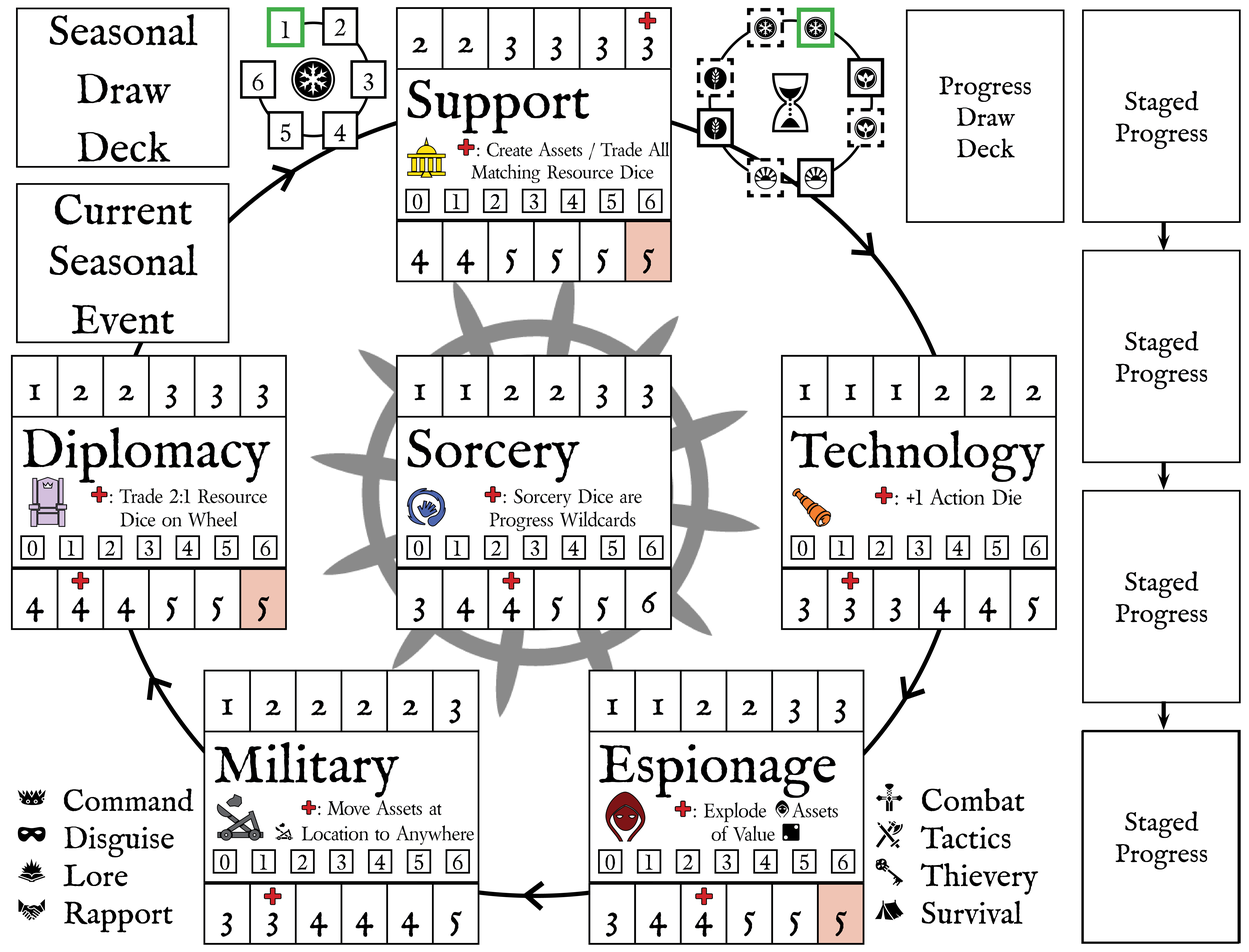
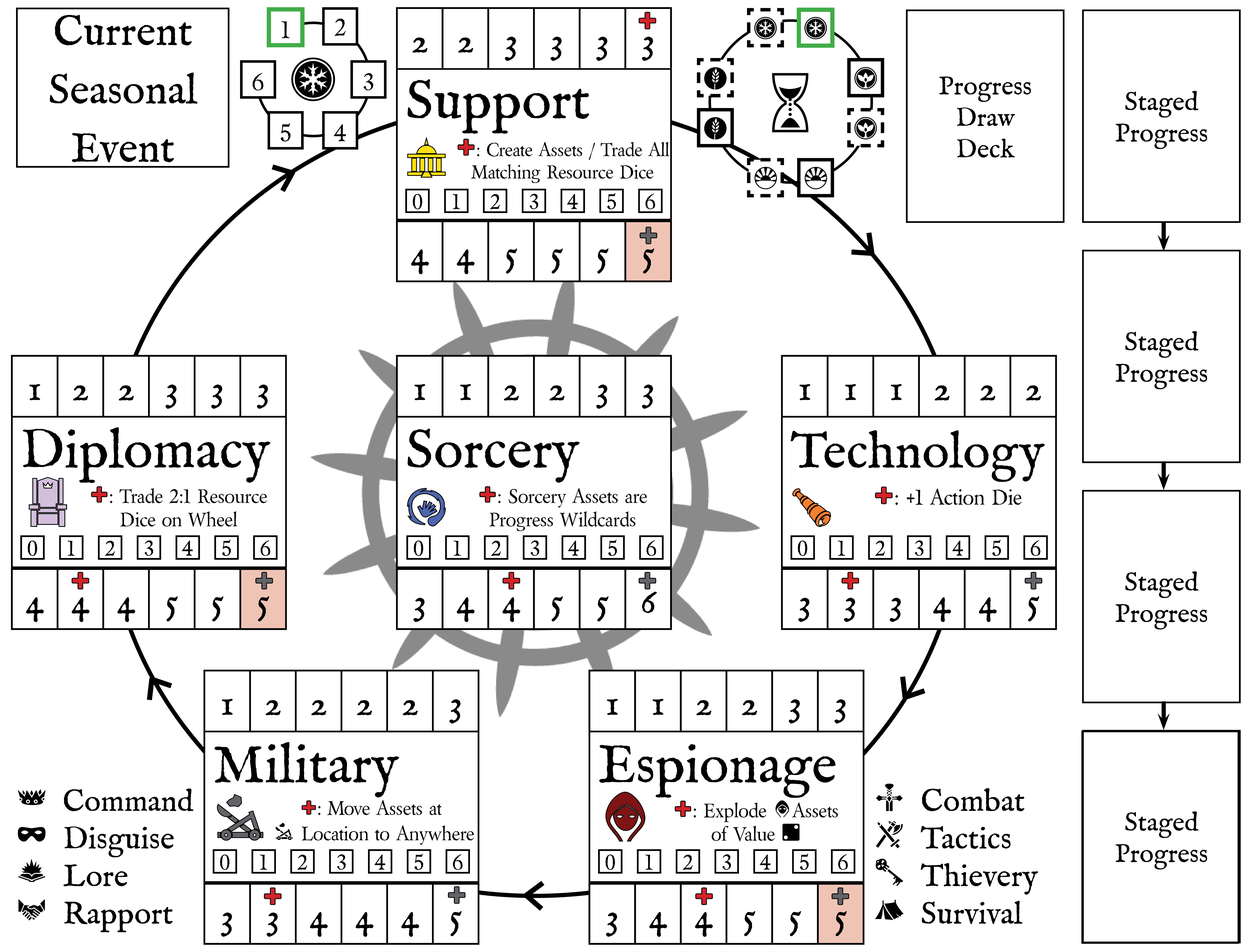
updates for version 19.7, new character achievements, no obstacle burn, simplified obstacle unlock

diff --git a/src/generate/indices_generator.py b/src/generate/indices_generator.py
@@ -1,12 +1,12 @@
 card_sets = [
-    ['Threat Mission Cards Fronts', 1, 129],
-    ['Threat Mission Cards Backs', 2, 129],
-    ['Attached Location Mission Cards Fronts', 129, 181],
-    ['Attached Location Mission Cards Backs', 130, 181],
+    ['Threat Obstcle Cards Fronts', 1, 123],
+    ['Threat Obstcle Cards Backs', 2, 123],
+    ['Attached Location Obstcle Cards Fronts', 123, 181],
+    ['Attached Location Obstcle Cards Backs', 124, 181],
     ['Progress Fronts', 1, 103],
     ['Progress Backs', 2, 103],
-    ['Locations Fronts', 1, 93],
-    ['Locations Backs', 2, 93],
+    ['Locations Fronts', 1, 99],
+    ['Locations Backs', 2, 99],
     ['Seasonal Events Fronts', 1, 33],
     ['Seasonal Events Backs', 2, 33]
 ]

diff --git a/docs/RULES.md b/docs/RULES.md
@@ -12,7 +12,7 @@
 10. [**FAQ**](#faq)
 11. [**Playtest Issues**](#playtest-issues)
 
-# Six Winters v19.6
+# Six Winters v19.7
 
 *Six Winters* is a cooperative fantasy campaign game for 1-4 players based on the *Wrath of the Autarch* tabletop role-playing game.
 
@@ -56,7 +56,7 @@ If a Red Bank progress marker is _alone_ on the last space of the resource track
 
 Any other state of the game after six sessions results in defeat for Red Bank.
 
-Additionally, a score is calculated at the end, with players getting points for every resource track where the progress marker is higher than the threat marker.
+Additionally, a score is calculated at the end, with players getting points for every resource track where the progress level is higher than the threat level.
 
 `There are thematic reasons that Military, Technology, and Sorcery tracks don't translate to victory. It is impossible to keep pace with the Empire on the Military and Technology fronts. Sorcery is too chaotic to form a strategy around, but it's a very useful resource for some characters, and it's possible to craft and transmute sorcery into other resources. All of the resources have value and mechanical impact during the game.`
 
@@ -111,18 +111,19 @@ Location cards have a variety of tags, mostly used by other card effects. All lo
 
 Along with the tags are one or more icons, as follows:
 
-| Empire | Red Bank | Settled Lands | Starting | Sorcery Threat | Military Threat | Technology Threat | Discord |
-| :---: | :---: | :---: | :---: | :---: | :---: | :---: | :---: |
-| <img src="rules_images/defensive-wall.png" width="100" height="100"/> | <img src="rules_images/holy-oak.png" width="100" height="100" /> | <img src="rules_images/water-mill.png" width="100" height="100" /> | <img src="rules_images/stack.png" width="100" height="100" /> | <img src="rules_images/magic-swirl.png" width="100" height="100" /> | <img src="rules_images/catapult.png" width="100" height="100"/> | <img src="rules_images/spyglass.png" width="100" height="100" /> | <img src="rules_images/backstab.png" width="100" height="100" /> |
+| Empire | Red Bank | Settled Lands | Starting | Discord |
+| :---: | :---: | :---: | :---: | :---: |
+| <img src="rules_images/defensive-wall.png" width="100" height="100"/> | <img src="rules_images/holy-oak.png" width="100" height="100" /> | <img src="rules_images/water-mill.png" width="100" height="100" /> | <img src="rules_images/stack.png" width="100" height="100" /> | <img src="rules_images/backstab.png" width="100" height="100" /> |
 
 * **Empire** - Imperial location, in the Empire locations deck and playable to the Empire region
 * **Red Bank** - Red Bank location, in the Red Bank locations deck and playable to the Red Bank region
 * **Settled Lands** - Settled Lands location, in the Settled Lands location deck and playable to the Settled Lands region
 * **Starting Location** - In the default campaign mode, this is one of the nine starting location cards
-* **Sorcery Threat** - Comes into play if the sorcery threat track reaches the final space
-* **Military Threat** - Comes into play if the military threat track reaches the final space
-* **Technology Threat** - Comes into play if the technology threat track reaches the final space
 * **Discord** - Comes into play if one of the characters, Oniri, sustains too much stress (see below)
+
+### Threat Locations
+
+If a threat level ever reaches the last box on a resource track, it immediately unlocks and puts into play a **threat location**. These present difficulties for Red Bank, but also offer an opportunity to lower the threat track. The threat locations have icons for resources under their title.
 
 ### Create Asset Skill
 
@@ -216,21 +217,11 @@ Every obstacle card has a name, although they are not all unique. There are mult
 
 Below the name, as for location cards, are a set of text tags and icons for each obstacle. Similarly to locations, these text tags may interact with other obstacle cards, location effects, and character abilities.
 
-### Obstacle Unlock Icon
+Additionally, some obstacles feature a location icon, indicating they come into play when the associated location comes into play.
 
-Along with the tags each obstacle has one icon, which shows how it becomes unlocked::
-
-| Location | Support Threat | Technology Threat | Espionage Threat | Military Threat | Diplomacy Threat | Sorcery Threat |
-| :---: | :---: | :---: | :---: | :---: | :---: | :---: |
-| <img src="rules_images/up-card.png" width="100" height="100" /> | <img src="rules_images/capitol.png" width="100" height="100" /> | <img src="rules_images/spyglass.png" width="100" height="100" /> | <img src="rules_images/cowled.png" width="100" height="100" /> | <img src="rules_images/catapult.png" width="100" height="100" /> | <img src="rules_images/stone-throne.png" width="100" height="100" /> | <img src="rules_images/magic-swirl.png" width="100" height="100" /> |
-
-* **Location** - This obstacle comes into play attached to the location with the obstacle's name in its text box
-* **Support Threat** - This obstacle comes into play at the end of a session if the support threat level is at or above the obstacle difficulty
-* **Technology Threat** - This obstacle comes into play at the end of a session if the technology threat level is at or above the obstacle difficulty
-* **Espionage Threat** - This obstacle comes into play at the end of a session if the espionage threat level is at or above the obstacle difficulty
-* **Military Threat** - This obstacle comes into play at the end of a session if the military threat level is at or above the obstacle difficulty
-* **Diplomacy Threat** - This obstacle comes into play at the end of a session if the diplomacy threat level is at or above the obstacle difficulty
-* **Sorcery Threat** - This obstacle comes into play at the end of a session if the sorcery threat level is at or above the obstacle difficulty
+| Unlocked with Location |
+| :---: |
+| <img src="rules_images/up-card.png" width="100" height="100" /> |
 
 ### Difficulty
 
@@ -243,6 +234,10 @@ Below the difficulty is a region symbol. This shows which region's obstacle deck
 ### Threats
 
 Along the right side of the obstacle are one or more threat icons, showing one of the six resources in the game. If there are *three* or more obstacles in play with the same obstacle symbol during the [**threats**](#threats) phase, the related threat track will increase.
+
+These threat icons are also important for unlocking obstacle cards and putting them into play. As the threat levels increase, more difficult obstacles with matching icons are unlocked as part of the [**unlock new threat obstacles**](#unlock-new-threat-obstacles) step.
+
+Occasionally, game effects will refer to an obstacle by the threat icons. For instance, "a military obstacle" or "a sorcery obstacle". An obstacle qualifies if *any* of its threat icons match the description.
 
 ### Effect
 
@@ -311,7 +306,11 @@ On each resource pool are numbered **resource action slots** from 0 to 6. These 
 
 ### Resource Mastery Bonus
 
-When Red Bank's progress track for a resource is at or beyond the **+** symbol on the resource track, Red Bank has mastery in that resource, and players gain the mechanical benefit described in the resource box. These bonuses are further clarified in the [**resource bonuses**](#resource-bonuses) section.
+When Red Bank's progress track for a resource is at or beyond the red **+** symbol on the resource track, Red Bank has mastery in that resource, and players gain the mechanical benefit described in the resource box. These bonuses are further clarified in the [**resource bonuses**](#resource-bonuses) section.
+
+### Threat Location Unlock
+
+If a threat level reaches the end of a track, where the gray **+** symbol is located, it immediately unlocks and puts into play a threat location. These present unique challenges for Red Bank to deal with, but also offer an opportunity to lower the related threat track.
 
 ### Wheel of Seasons
 
@@ -363,7 +362,7 @@ There are separate character sheets for the seven characters in the game. At the
 
 ### Skills
 
-The upper left of the character sheet describes how proficient the character is at a set of six skills:
+The upper left of the character sheet describes how proficient the character is at a set of eight skills:
 
 | Command | Disguise | Lore | Rapport | Combat | Tactics | Thievery | Survival |
 | :---: | :---: | :---: | :---: | :---: | :---: | :---: | :---: |
@@ -381,7 +380,7 @@ If a character takes stress such that the tracking die would go to zero, it is s
 
 ### Conditions
 
-The stress track boxes below the starting position are called **conditions**. When the stress die moves on to one of these, cross it off. The first stress box below the starting position unlocks a [**commitment**](#commitment) ability when it is checked off. The remaining two unlock [**discord**](#discord) effects.
+The stress track boxes below the starting position are called **conditions**. When the stress die moves on to one of these, cross it off. The bottom two conditions on each track unlock [**discord**](#discord) effects.
 
 Conditions are recovered at the end of each game, during the [**recover conditions**](#recover-conditions) step.
 
@@ -389,7 +388,7 @@ If a condition box is already checked off when the stress die is moved down, **i
 
 ### Recovering Stress and Conditions
 
-There are many ways to recover stress, such as the [**rest**](#rest) action. In these cases, the chosen stress die is increased by the indicated amount. Unless otherwise indicated, this can be done to increase the stress die above its starting value. However! It is not possible to recover conditions or move the stress die back up the condition track during a session. If a die is at the 6 value, no improvement is possible for that stress track. Once the die has moved down the track, it is at that level or below for the rest of the game. Recovering conditions takes place during the [**recover conditions**](#recover-conditions) year end step.
+There are many ways to recover stress, such as the [**rest**](#rest) action. When stress is recovered, the chosen stress die is increased by the indicated amount. Unless otherwise indicated, this can increase the stress die above its starting value. However! It is not possible to recover conditions or move the stress die back up the condition track during a session. If a die is at the 6 value, no further improvement is possible for that stress track. Once the die has moved down the track, it is at that level or below for the rest of the game. Recovering conditions takes place during the [**recover conditions**](#recover-conditions) year end step.
 
 ### Knocked Out
 
@@ -403,35 +402,35 @@ Abilities are available to use at any time during the [**actions**](#actions) ph
 
 Like progress cards, abilities with a specific die value require using a die of that value. Abilities with a white box may be used with any die.
 
-Most abilities generate or modify dice. The generated die has the same type as the die used to activate the ability. For instance, Lucia has the ability to turn a 1 die into a 2 die. If a 1 action die is used for this ability, a 2 action die is generated. If a 1 die from the location's resource pool where Lucia is at is used, then a 2 is put back into that resource pool.
+Most abilities generate or modify dice. Unless otherwise noted, the generated die has the same type as the die used to activate the ability. For instance, Lucia has the ability to turn a 1 die into a 2 die. If a 1 action die is used for this ability, a 2 action die is generated. If a 1 die from the location's resource pool where Lucia is at is used, then a 2 is put back into that resource pool.
 
 Leave any dice on character abilities until the [**refresh**](#refresh) phase. Essentially, character abilities that take dice may only be used once per turn. Abilities that take stress may be used many times.
 
 ### Sample Abilities
 
-<img src="rules_images/square.png" width="75" height="75" /> <img src="rules_images/arrow-right.png" width="75" height="75" /> <img src="rules_images/cubes.png" width="75" height="75" />
+<img src="rules_images/brain.png" width="75" height="75" /> <img src="rules_images/brain.png" width="75" height="75" /> <img src="rules_images/arrow-right.png" width="75" height="75" /> <img src="rules_images/cubes.png" width="75" height="75" />
 
-Spend a die to reroll any dice in the same target pool. As usual, an action die may be spent to roll any of the character's action dice, an asset where the character is located may be spent to reroll any other assets where the character is located, or any dice in the location's resource pool where the character is located may be spent to roll any other dice in that resource pool. Players do not have to reroll all the dice, they can choose which dice to reroll.
+Take two psyche stress to reroll any dice in the chosen target pool. May target the action dice pool for the character, the assets where the character is located, or the location's resource pool where the character is located. Players do not have to reroll all the dice, they can choose which dice to reroll.
 
 <img src="rules_images/dice-six-faces-one.png" width="75" height="75" /> <img src="rules_images/arrow-right.png" width="75" height="75" /> <img src="rules_images/dice-six-faces-two.png" width="75" height="75" />
 
-Turn a value 1 die into a value 2 die. Most characters have a "turn die X into die Y" ability. As usual, the die can come from the player's action dice, from an asset die where the character is located, or from the location's resource pool where the character is located. The new die is of the same type as the die placed on the ability.
+Turn a value 1 die into a value 2 die. Most characters have a "turn die X into die Y" ability. The die can come from the player's action dice, from an asset die where the character is located, or from the location's resource pool where the character is located. The new die is of the same type as the die placed on the ability.
 
 <img src="rules_images/square.png" width="75" height="75" /> <img src="rules_images/arrow-right.png" width="75" height="75" />
 
-These abilities are activated by placing an action die, an asset from where the character is at, or a resource die from the location's resource pool where the character is located. There are a wide variety of possible character effects.
+These abilities are activated either by placing an action die, an asset from where the character is at, or a resource die from the location's resource pool where the character is located. There are a wide variety of possible character effects.
 
 See the [**character appendix**](#character-appendix) for a more detailed breakdown of character abilities.
 
-### Commitment Abilities
+### Achievements
 
-When a character marks off the first condition box, they gain a commitment ability. Some stress is a good thing! Commitment abilities work just like other character abilities. These are unlocked in order, from top to bottom.
+Characters have additional abilities that are unlocked by undertaking different tasks during a game. These are listed under the achievements section of the character sheet. When a character takes the indicated action, they mark off the associated achievement and gain the related ability. These achievements may be gained in any order.
 
-`Since there are only two conditions with commitment, it's usually not possible for a character to gain more than two commitment abilities in one session.`
+See the [**character appendix**](#character-appendix) for a more detailed breakdown of achievements.
 
 ### Discord Effects
 
-Too much stress, though, is terrible. When either of the bottom two condition boxes are marked on the stress boxes, characters take a discord effect. The discord effects are also unlocked from top to bottom. Most discord effects require the player to write in something, such as a character name, a resource, or some other detail. These choices will make some characters unwilling to work as closely with certain characters. Choose carefully!
+Too much stress can bring out the worst in a character. When any discord condition box is marked on the stress track, characters take a discord effect. The discord effects are unlocked from top to bottom.
 
 See the [**character appendix**](#character-appendix) for a more detailed breakdown of discord effects.
 
@@ -484,11 +483,7 @@ Alternatively, shuffle the location cards by region. Then draw four cards from e
 
 ## Assemble Starting Obstacle Decks
 
-Unlock all of the obstacles with difficulties less than or equal to the initial threat levels for that resource. The [**unlock icon**](#obstacle-unlock-icon) of the obstacle is determined by finding the small black and white icon under the title.
-
-For instance, in the standard difficulty, the initial diplomacy threat level starts at 2. This is because the third space on the diplomacy track has a 2 on it. So gather up all of the obstacles with small black and white diplomacy unlock icons under their title of difficulty 1 and 2.
-
-After gathering up all of the initial obstacles based on starting threat tracks, divide them into decks by region icon in the upper left, and shuffle each of these decks to form one draw pile in each region. Set aside the remaining locked obstacles.
+Unlock all of the obstacles with difficulties of **two** or less and divide them into decks by region icon in the upper left. Shuffle each of these decks to form one draw pile in each region. Set aside the remaining locked obstacles.
 
 ## Assemble New Character Sheets
 
@@ -612,6 +607,10 @@ There will now be a number of open positions in the progress staging area equal 
 Raise each threat track by one for every matching threat symbol on obstacle cards beyond two. For instance, if there are 4 military thret icons on the obstacle cards, the military threat track will increase by 2. If there are 3 diplomacy threat icons on obstacles, the diplomacy threat track will increase by 1, etc.
 
 If a threat track is already at the highest position (step 12 on the track), increase the next threat track in trade order. For instance, if the support track is maxed out, increase technology instead. If sorcery is maxed out, players may choose which track to increase.
+
+### Unlocking Threat Locations
+
+Additionally, when a threat track reaches the final space, immediately unlock and put into play the related [**threat location**](#threat-locations). Burn one location in the region where the threat location should go, and put the threat location into play at that space. Unlock and attach any obstacles as indicated on the threat location card.
 
 `Unless playing at a very hard difficulty, maxing out a threat track is fairly rare, and typically only happens near the end of the campaign.`
 
@@ -737,7 +736,7 @@ TBD
 
 At the end of each session, complete the following steps:
 
-1. Burn Obstacles
+1. Clear Unfinished Progress and Asset Dice
 2. Burn Progress Cards
 3. Unlock New Obstacles
 4. Shuffle Obstacle Decks
@@ -748,9 +747,9 @@ At the end of each session, complete the following steps:
 
 Instructions to **burn** cards refer to placing them out of play for the remainder of the campaign. There is no effect that brings a burned card back into play.
 
-## Burn Obstacles
+## Clear Unfinished Progress and Asset Dice
 
-In each region's obstacle discard pile, burn the obstacle card on the bottom the discard deck. That is, the first obstacle discarded.
+Remove and discard any asset dice currently on location cards. Discard any dice on currently unfinshed progress cards and discard the progress cards to the appropriate stage deck.
 
 ## Burn Progress Cards
 
@@ -760,7 +759,9 @@ Gather and shuffle all of the progress cards for the lowest stage, then randomly
 
 ## Unlock New Threat Obstacles
 
-For each threat track, unlock obstacle cards with the given threat unlock icon of a difficulty less than or equal to the threat level. Place the unlocked obstacled cards in the region discard pile matching the region symbol of each obstacle.
+For each threat track, unlock obstacle cards with at least one of the related threat icons that have a difficulty less than or equal to the threat level. Place the unlocked obstacled cards in the region discard pile matching the region symbol of each obstacle.
+
+`As the threat levels increase, more difficult obstacles related to that resource are unlocked.`
 
 ## Shuffle Obstacle Decks
 
@@ -778,11 +779,17 @@ For each region, shuffle the region's location deck and draw two locations. Choo
 
 Some location cards will unlock new location obstacles at this time. If the location has a starting obstacle icon, look through the locked obstacle cards and put any matching named obstacles into play with the location. 
 
+### Locations to Unlock New Characters
+
+There is one location in each region that allows players to unlock a new character: *Undari's Tomb* (Red Bank / Oniri), *Pearlescent Marsh* (Settled Lands / Yasmina), and *Guild of Secrets* (Empire / Lucia). **Instead of** drawing locations randomly for the given region, players may choose an unlock location instead. Any number of character unlock locations may be chosen for the end of the year, although there could be quite a few obstacles in play at the start of the next game.
+
 ## Recover Conditions
 
 Each unlocked character recovers the first (the one closest to the starting stress position) marked condition box on each track. Erase the mark on this condition. More severe conditions, like *Wounded*, could be difficult to clear if character's are frequently marking multiple conditions!
 
 Note that **all** unlocked characters recover one condition on each stress track, even if they weren't active for this session. This is a way to let badly stressed characters have some extra recovery.
+
+`For instance, if a character is both weary and bruised, the weary condition is erased. Bruised remains.`
 
 ## Advance Year
 
@@ -790,7 +797,7 @@ The year advances by one. If this is year six, the campaign is over, move on to 
 
 ## Store Game
 
-For *Tabletop Simulator*, this is probably straightforward. In the real game, decks will have to be stacked in such a way that they are easy to recover again.
+For *Tabletop Simulator*, this is probably straightforward. In the real game, locations and obstacle decks will have to be stacked in such a way that they are easy to recover again.
 
 # Campaign End
 
@@ -861,25 +868,23 @@ Spend a die and gain a die of one value lower.
 
 ### Tech Split
 
-<img src="rules_images/spyglass.png" width="75" height="75" /> <img src="rules_images/arrow-right.png" width="75" height="75" /> <img src="rules_images/square.png" width="75" height="75" /> <img src="rules_images/plus.png" width="75" height="75" /> <img src="rules_images/square.png" width="75" height="75" />
+<img src="rules_images/spyglass.png" width="75" height="75" /> <img src="rules_images/arrow-right.png" width="75" height="75" /> <img src="rules_images/spyglass.png" width="75" height="75" /> <img src="rules_images/plus.png" width="75" height="75" /> <img src="rules_images/spyglass.png" width="75" height="75" />
 
-Spend a technology die, either an asset or resource pool die, and gain two dice of the same type. The two dice must sum to the spent die.
+Spend a technology die, either an asset or resource pool die, and gain two dice of the same type (asset or resource). The two dice must sum to the spent die.
 
 ### Die Split
 
 <img src="rules_images/square.png" width="75" height="75" /> <img src="rules_images/arrow-right.png" width="75" height="75" /> <img src="rules_images/square.png" width="75" height="75" /> <img src="rules_images/plus.png" width="75" height="75" /> <img src="rules_images/square.png" width="75" height="75" />
 
-Spend any type of die and gain two dice of the same type. The two dice must sum to the spent die.
-
-## Menas
-
-### Exploding Threes
-
-<img src="rules_images/square.png" width="75" height="75" /> <img src="rules_images/arrow-right.png" width="75" height="75" /> <img src="rules_images/dice-fire.png" width="75" height="75" />
-
-Spend a die to explode all value 3 dice in a chosen pool. The standard three dice pools may be selected: Menas's action dice, assets where Menas is located, or the location's resource dice pool where Menas is located. Gain an extra die of the appropriate type for each 3 in the pool and roll them. If any of those dice roll a 3, take additional dice and roll those. Continue gaining new dice every time a 3 is rolled.
+Spend any type of die (action die, asset, or resource die) and gain two dice of the same type. The two dice must sum to the spent die.
 
 ## Thea
+
+### Exploding Fives
+
+<img src="rules_images/capitol.png" width="75" height="75" /> <img src="rules_images/arrow-right.png" width="75" height="75" /> <img src="rules_images/exploding-five.png" width="75" height="75" />
+
+Spend a support asset or resource die to explode all value 5 dice in a chosen pool. The standard three dice pools may be selected: Thea's action dice, assets where Thea is located, or the location's resource dice pool where Thea is located. Gain an extra die of the appropriate type for each 5 in the selected pool and roll them. If any of those dice roll a 5, take additional dice and roll those. Continue gaining new dice every time a 5 is rolled.
 
 ### Rearrange Staged Achievements
 
@@ -920,7 +925,7 @@ One area to watch surrounds how new obstacles are unlocked and put into the game
 3. Character abilities burn obstacles
 4. Some number are burned at the end of every game
 
-Initially I thought the obstacle decks would cycle quite a bit, so there was almost a deck builder aspect to the game. That hasn't really happened for a variety of reasons (mainly because of how obstacles are tied to threats). But! It still seems fun, if, like locations, obstacle decks start one way, and slowly change over time. Either 3 or 4 seem good.
+Initially I thought the obstacle decks would cycle quite a bit, so there was almost a deck builder aspect to the game. That hasn't really happened for a variety of reasons (mainly because of how obstacles are tied to threats). I'm currently at 1 - although that does mean that obstacles added very late in the campaign may never be seen. I reconciled this with the fact that very important obstacles are typically attached to locations, so are guaranteed to start in play.
 
 ## Obstacle and Threat Pacing
 
@@ -930,7 +935,7 @@ Does the game lock up if threat levels aren't increasing? More difficult obstacl
 
 ## Character Abilities
 
-There's lots of room to tune character abilities, particularly around writing customizing characters over the campaign.
+There's lots of room to tune character abilities.
 
 Dice combos and chains are probably the funnest part of the game. Not surprising given it's a dice game. So character effects that are like "spend a pair" to get XYZ or "a straight of size X" gives you some powerful effect, etc, would be fun advanced abilities.
 
@@ -945,19 +950,19 @@ Action items from playtests and potential variants or ideas.
 * Does Hidden Outpost need a "stationary" tag?
    * Certain obstacles probably wouldn't move around, even for activation reasons
    * Could also change the theme to have it make sense for moving around
-* Add location, obstacle, or character effects for burning obstacles in discard piles
+* Add location, obstacle, or character effects for burning obstacles in discard piles?
    * Instead of auto-burning obstacle cards
+   * Seems fiddly though, for probably not much benefit
 * Possible combos on left side of character cards
    * 3 4 5 --> 5 dice
       * Or some sort of straight to big combo or some effect could be fun
    * 3 3 3 --> 1 2 3
       * Set to straight combos could be useful on +1/-1 sorts of progress cards
-* Customizable character abilities
-   * Write in resources you can create or trade into?
-   * Move to the location where XYZ is located
-   * Write in some sort of location type where character can benefit
 * Wondering if the complexity of skill types for locations (for create asset and trade) is worth it
    * Maybe more fiddly than it's worth for the tactical interest
+   * How different is the game if characters can just grab as many resources as they want (given action dice)?
 * Random threat increase amount, based on highest difficulty of obstacle in set?
 * Should players be able to choose which location to burn?
    * How many locations per region to draw?
+* Should Thea get "exploding 5s" and Menas get the flip a die?
+   * Exploding dice are subtly better for progress cards?

diff --git a/docs/BRAINSTORMING.md b/docs/BRAINSTORMING.md
@@ -1,3 +1,48 @@
+# 08/26/22
+
+## Obstacle Pacing
+
+Also still not sure about obstacles coming and going. Without burning some off, it's pretty unlikely new ones will be drawn with any regularity. Burning one off each game gives you 18 burned. There are 64 general ones, and can probably figure on 10 or so coming from locations.
+
+How to avoid the decks somehow getting too low? Could look at threat levels. Still could be too many cards burned. Maybe should give every end of threat track a location with specific obstacles? That would make sure they come into play during the final game. Or maybe you unlock the obstacle cards immediately, putting them on top of decks? That would work, but it's pretty fiddly.
+
+Learning towards:
+
+* never burn obstacles, except a select few
+* add obs at end of turn, shuffling into deck
+* every track has a location at the end for the high threat condition
+* end of threat tracks are immediate - so they can happen during the last game
+
+## Achievements
+
+* Complete Progress Card
+   * Type
+   * Stage
+* Overcome Obstacle
+   * Type
+   * Difficulty
+   * With Other Character
+   * At Location
+   * In Region
+* Spend Assets
+* Take Condition
+
+Currently commitment is all based on conditions. This maybe creates mismatched incentives. Ideally, the way to unlock achievements shouldn't interefere much with strategy choices. There's always a fixed number per game, which isn't bad. But there's something fun about the in-game goals, where it's possible to potentially unlock quite a few in one game. It also gives an additional thing to watch for. Spending assets is too much like completing progress cards, though. It just burns resources for some other use. It's okay, but better to not feel like it's a sideshow. And stress/conditions is also a little tricky. Maybe focus on progress cards and obstacles?
+
+Working with other characters does force players to use certain combinations of characters. That's okay, but should probably mean you don't have to go in order for achievements. Going in order would make the game much harder. Maybe put a pin in the ordering of achievements. Should you be able to satisfy two achievmeents with one action? That doesn't seem ideal. But if you had "work with XYZ character" and "overcome XYZ type obstacle", those could be done at the same time. Maybe that's fine! You would still have to set that up.
+
+### Thea Abilities
+
+Is exploding fives restricted to the listed die type?
+
+# 08/23/22
+
+## Playtest Analysis
+
+Starting to get tuned again after the change to character sheets from character decks. Pacing feels a little better now.
+
+Not sure about stress for commitment, though. If it's going to be there, probably do need a "drop commitment for a reroll". Or it's a sign that there are maybe better uses for commitment. What were the old commitment cards about?
+
 # 08/22/22
 
 ## Two Player Playtest
